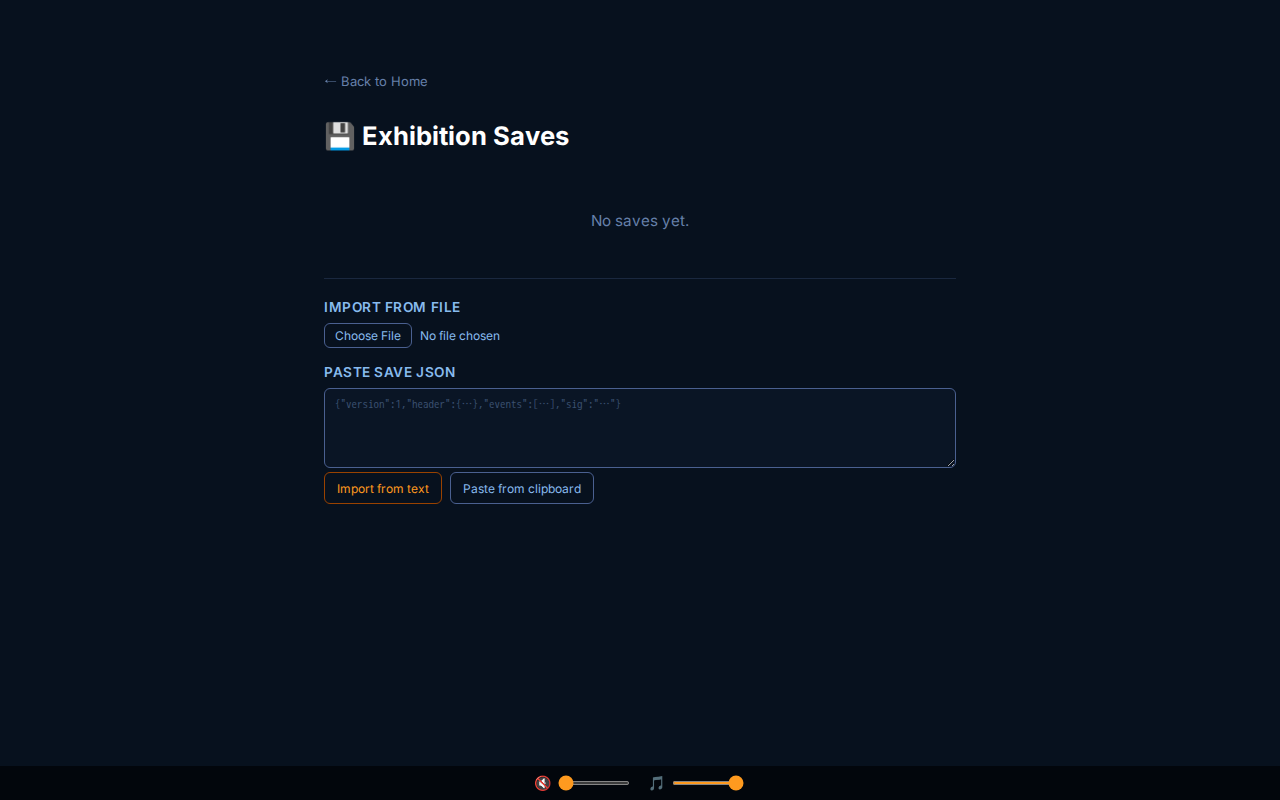
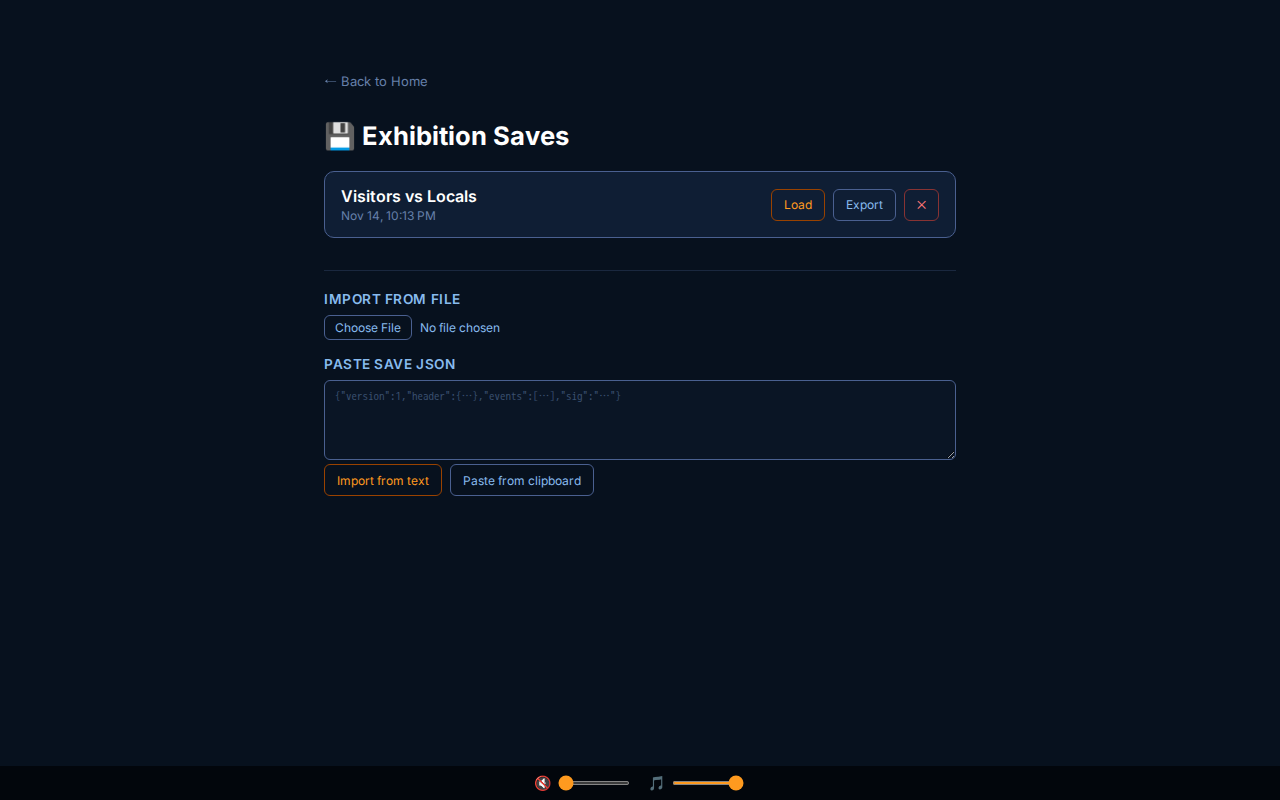
fix: populate saves page screenshot with example save

diff --git a/e2e/tests/take-screenshots.spec.ts b/e2e/tests/take-screenshots.spec.ts
@@ -12,6 +12,7 @@ import * as path from "path";
 
 import {
   importHistoryFixture,
+  loadFixture,
   resetAppState,
   startGameViaPlayBall,
   waitForLogLines,
@@ -188,9 +189,16 @@ test.describe("Documentation Screenshots", () => {
   // ── 5. Saves page ───────────────────────────────────────────────────────────
   test("5. Saves page", async () => {
     await forBothViewports(async (page, viewport) => {
-      await resetAppState(page);
+      // Load a save fixture so the saves page shows an example save row instead
+      // of the empty state.  loadFixture auto-navigates to /game after import;
+      // we then navigate back to /saves to take the screenshot.
+      await loadFixture(page, "sample-save.json");
       await page.goto("/saves", { waitUntil: "domcontentloaded" });
       await page.waitForSelector("[data-testid='saves-page']", { state: "visible" });
+      await page.waitForSelector("[data-testid='saves-list-item']", {
+        state: "visible",
+        timeout: 10_000,
+      });
       await captureScreenshot(page, `saves-${viewport}.png`);
     });
   });
